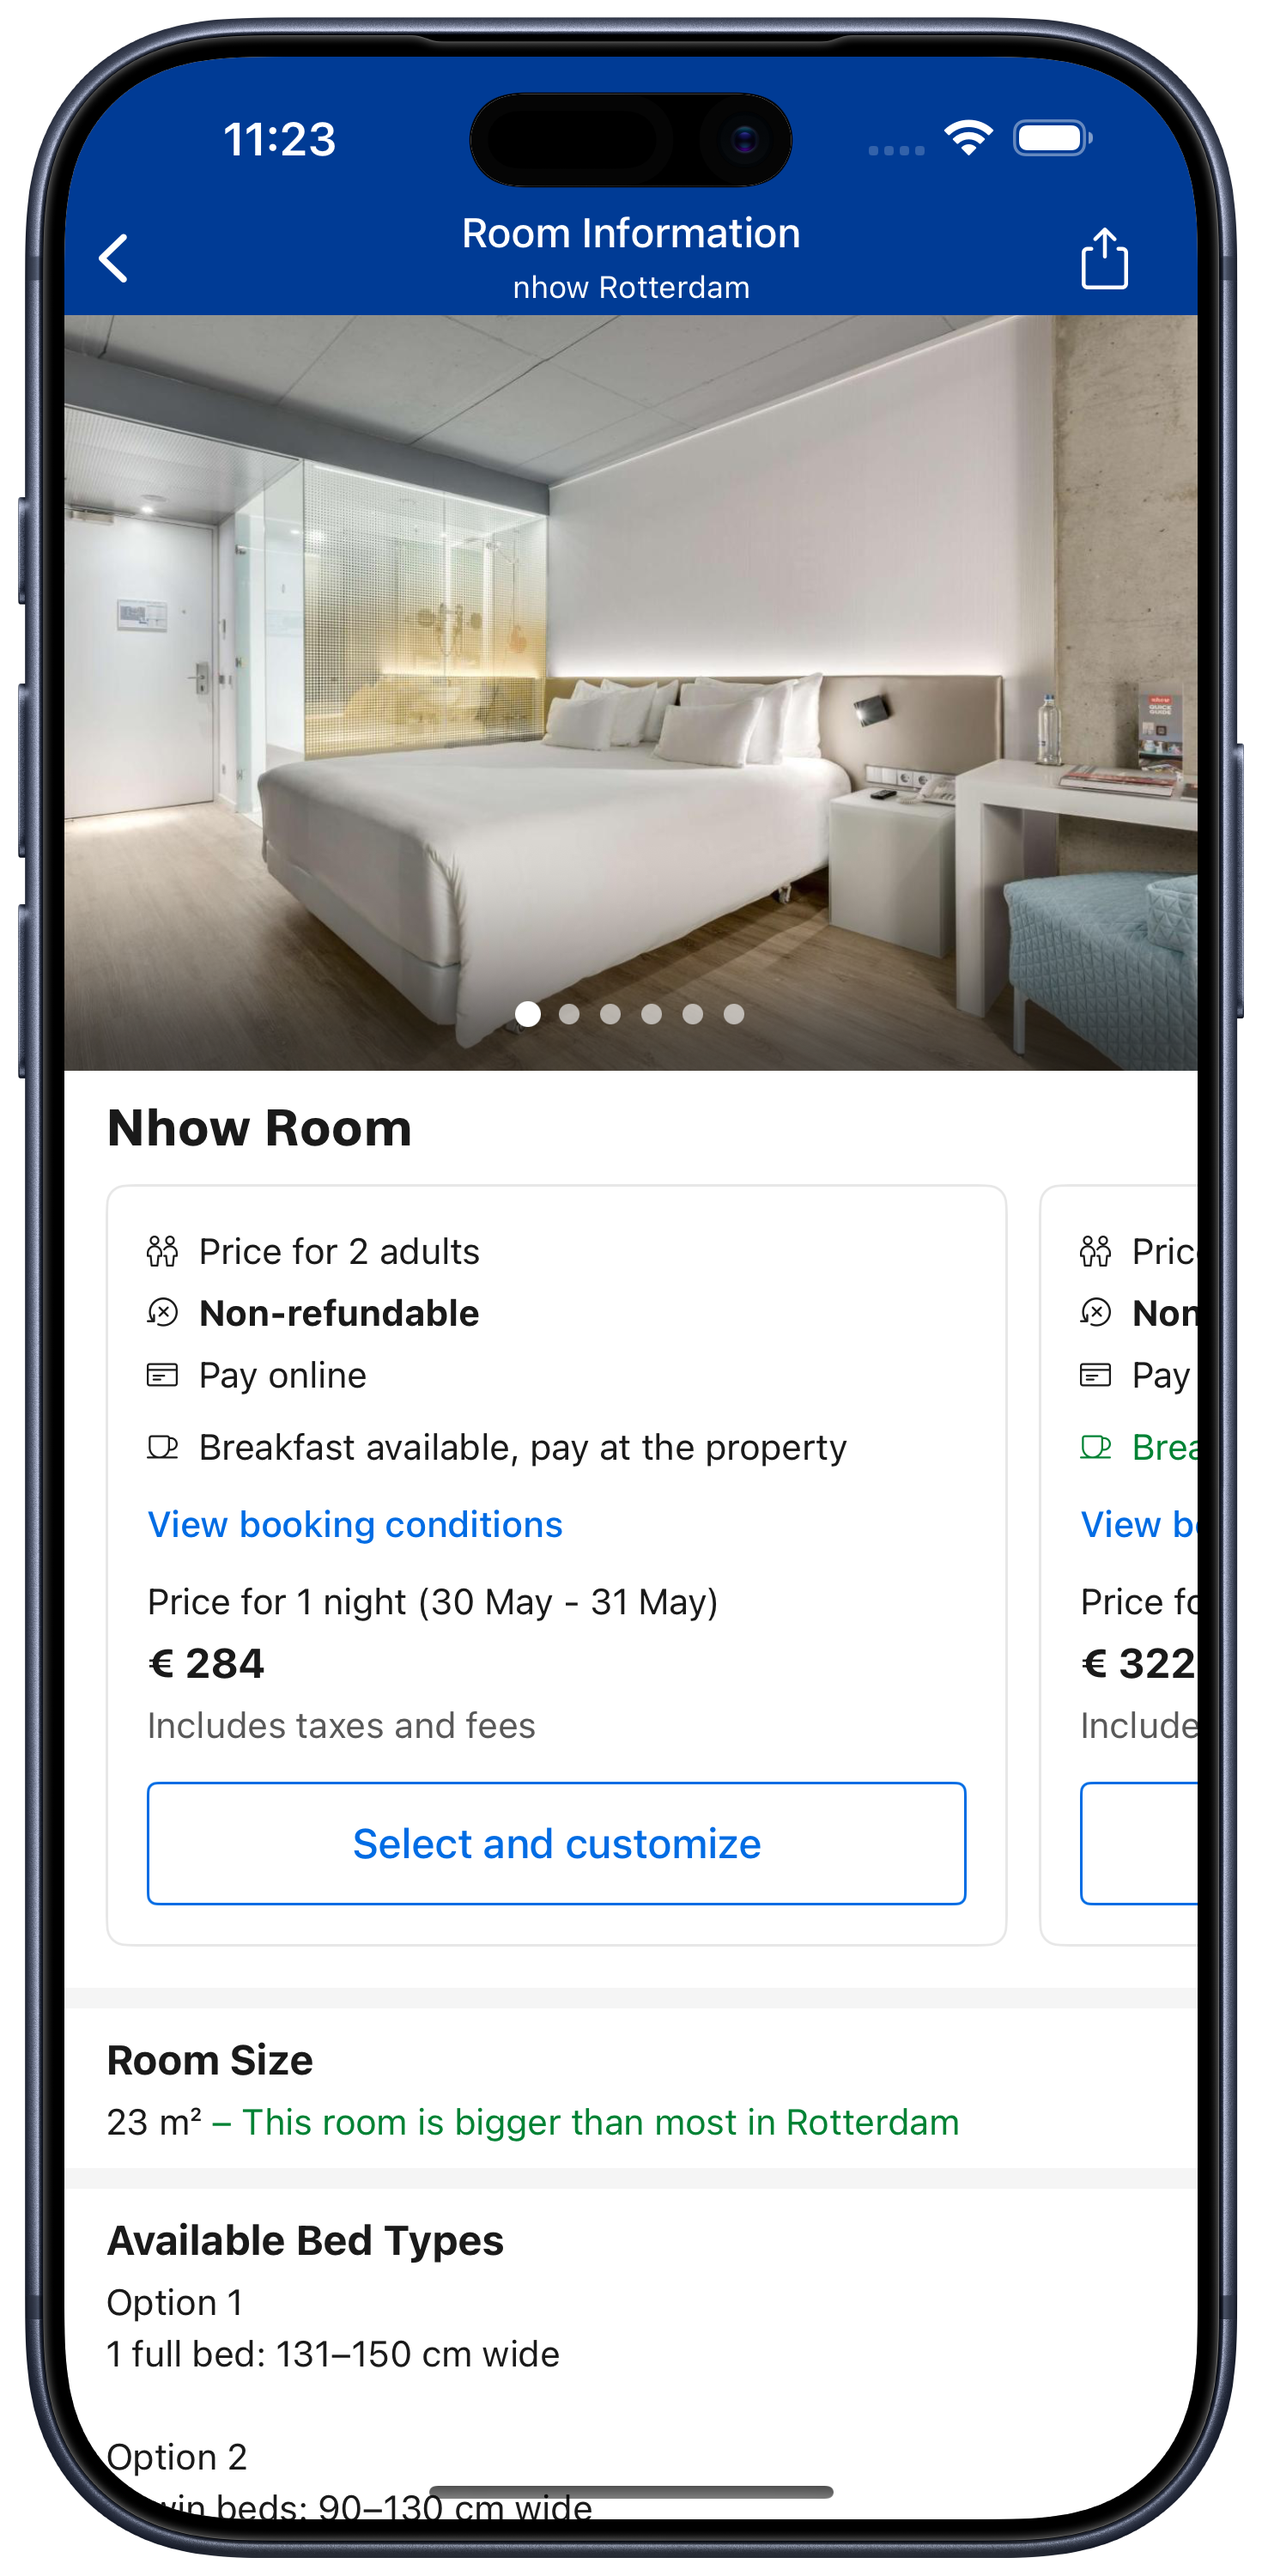
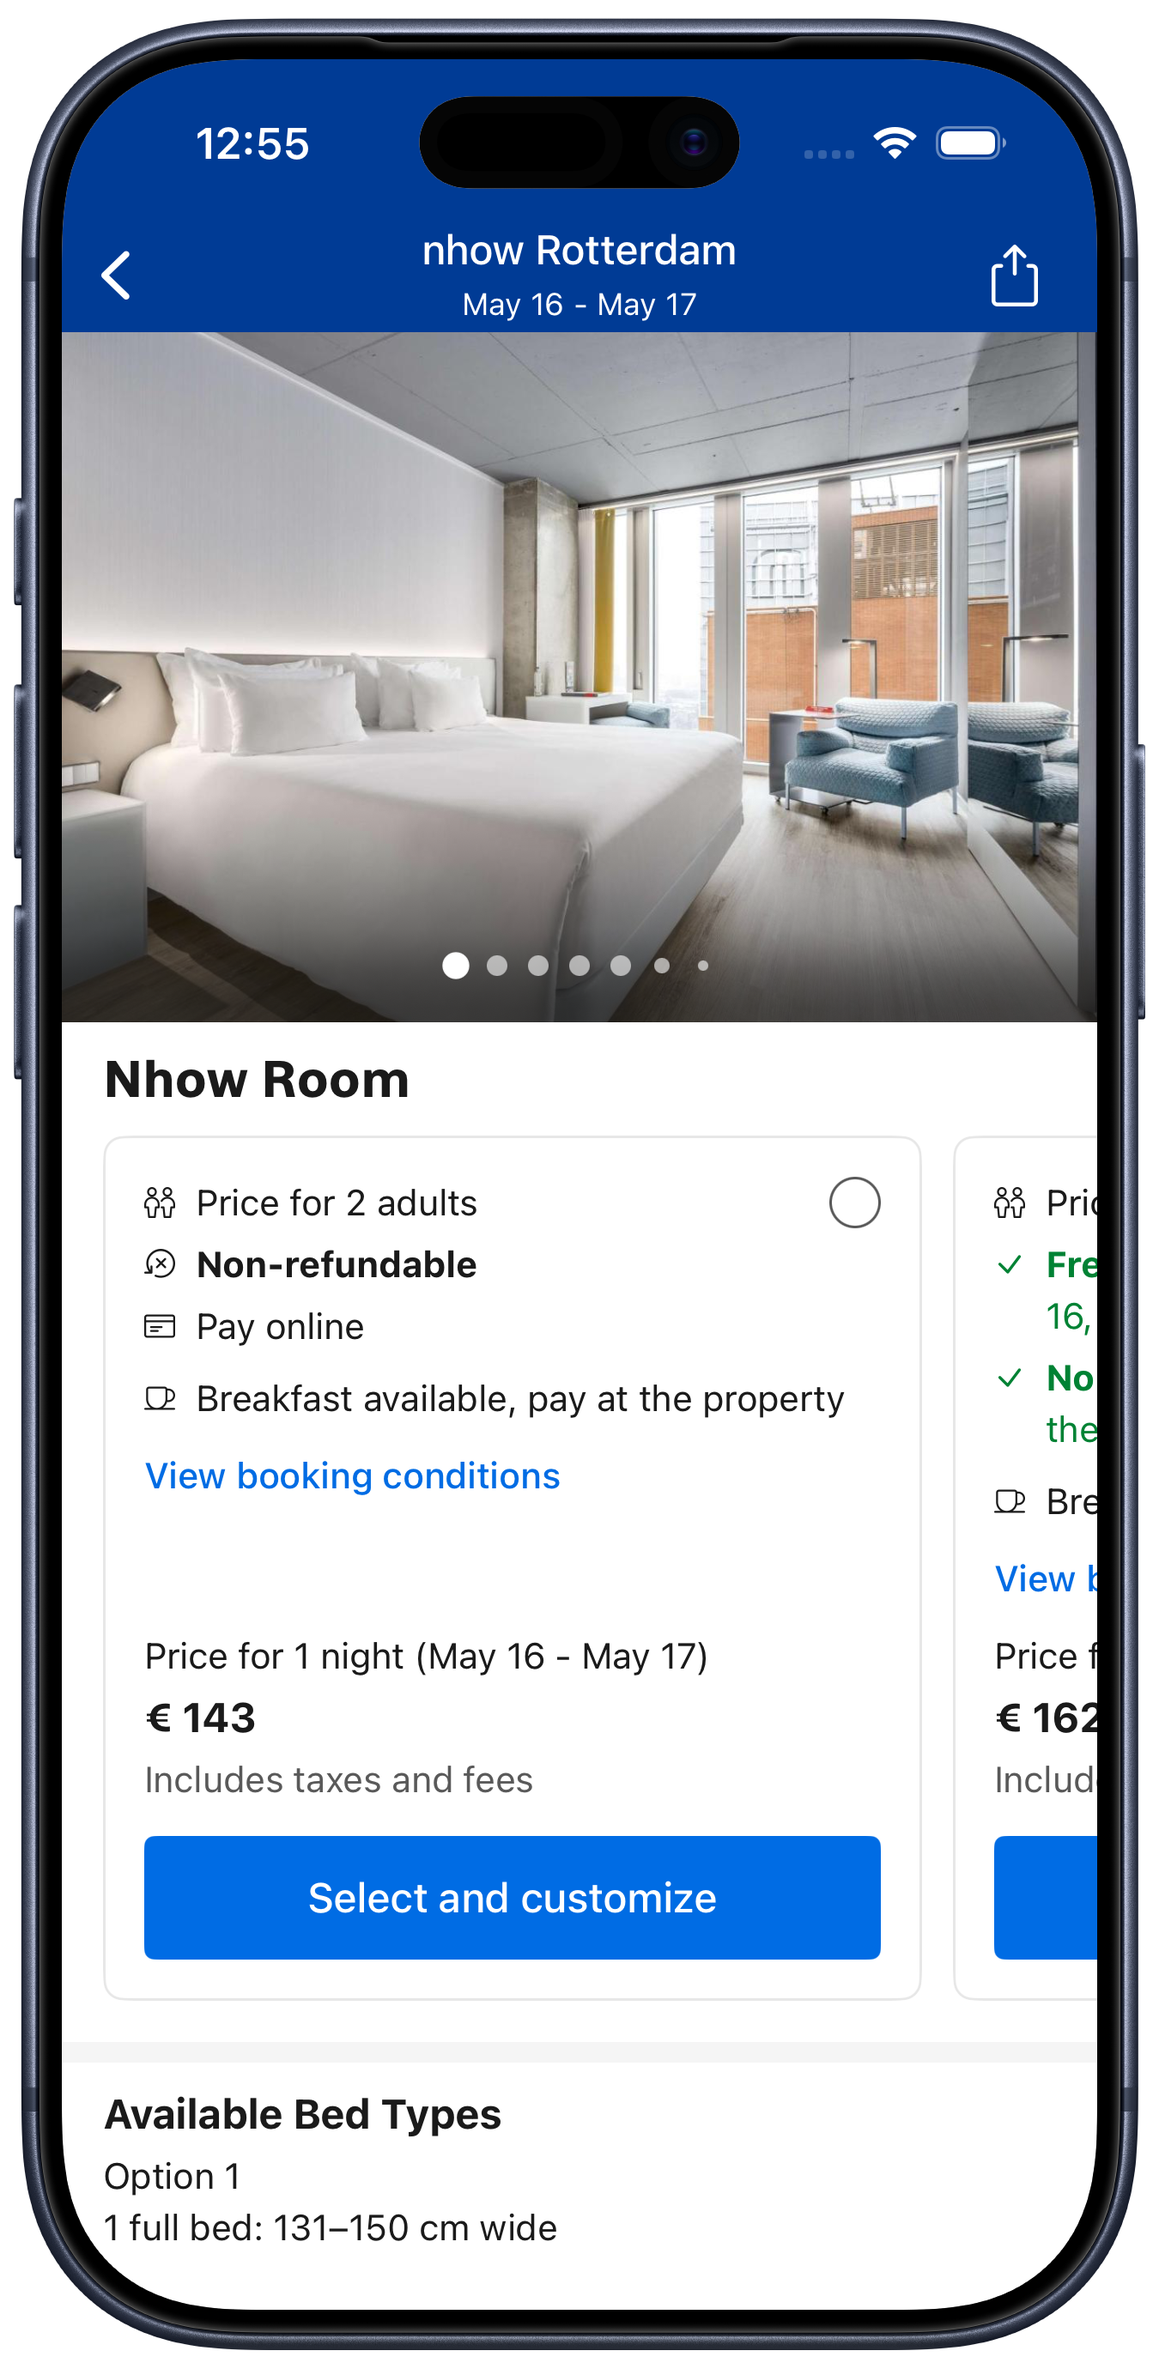
Complete Booking room comparison case study

diff --git a/booking/index.html b/booking/index.html
@@ -12,37 +12,28 @@
     <link rel="stylesheet" href="../css/style.css">
     <link rel="stylesheet" href="../css/works.css">
     <link rel="icon" type="image/png" href="../assets/favicon.png" />
+    <link rel="shortcut icon" type="image/x-icon" href="../assets/favicon.png">
 </head>
 
 <body class="booking-project">
-    <div class="work-container">
+<div class="work-container">
         <div class="work-header booking-header">
-            <p class="booking-brand">Booking.com</p>
-            <h1>Horizontal Room<br />Comparison</h1>
-            <div class="comparison-preview" aria-label="Illustration of three rooms shown side by side">
-                <div class="comparison-card">
-                    <span class="comparison-photo"></span>
-                    <strong>Standard Room</strong>
-                    <span>1 bed · 2 guests</span>
-                </div>
-                <div class="comparison-card comparison-card-featured">
-                    <span class="comparison-photo"></span>
-                    <strong>Deluxe Room</strong>
-                    <span>1 bed · City view</span>
-                </div>
-                <div class="comparison-card">
-                    <span class="comparison-photo"></span>
-                    <strong>Family Room</strong>
-                    <span>2 beds · 4 guests</span>
+            <div class="booking-hero">
+                <img src="../assets/booking/booking-hero.png" alt="Two deep blue iPhones showing the Booking.com room list in dark and light appearances." />
+                <div class="booking-hero-copy">
+                    <p class="booking-brand">Booking.com · iOS</p>
+                    <h1>Horizontal Room<br />Comparison</h1>
                 </div>
             </div>
         </div>
     </div>
 
-    <nav id="nav">
+    <nav id="nav" class="booking-nav">
         <div class="nav-content">
             <div class="avatar">
-                <a href=".."><img src="../assets/memoji.png" alt="My Memoji" /></a>
+                <a href="..">
+                    <img src="../assets/memoji.png" alt="My Memoji" />
+                </a>
             </div>
             <ul class="menu">
                 <li><a href="..">Home</a></li>
@@ -52,59 +43,67 @@
             </ul>
         </div>
     </nav>
-
-    <main>
-        <div class="back-white">
+<main>
+        <div class="back-white booking-overview-section">
             <article class="work-article">
-                <p class="case-study-label">Booking.com · iOS</p>
                 <h2>Overview</h2>
-                <p class="work-text">
-                    I worked on a horizontal comparison experience for the room list in the Booking.com iOS app. The project explored how to make the differences between available rooms easier to understand without asking travellers to repeatedly move back and forth between separate options.
+                <p class="work-text-normal">
+                    I led development of a horizontal room comparison experience for the Booking.com iOS app, implementing the interface and its logic from start to finish. The experience helps travellers compare rates for the same room and understand what each option includes.
                 </p>
             </article>
         </div>
 
         <div class="back-gray">
             <article class="work-article">
-                <h2>The problem</h2>
+                <h2>The Problem</h2>
                 <p class="work-text-normal">
-                    Room options often share most of their details while differing in a few important ways: bed configuration, occupancy, cancellation policy, included meals, and price. In a vertical list, those differences can be difficult to keep in mind while making a decision.
+                    Room rates often differ in only a few ways, such as cancellation terms or whether breakfast is included. The previous experience placed rates in a long, price-sorted vertical list, repeating room size, bed configuration and amenities. Rates for the same room were not always next to each other, so a cheaper rate for one room could appear above a more expensive rate for another. That made it difficult for travellers to see what they would get for paying more.
                 </p>
             </article>
         </div>
 
-        <div class="back-white">
+        <div class="booking-comparison-section booking-comparison-white padding-bottom-4">
             <article class="work-article">
-                <h2>The approach</h2>
+                <h2>A Horizontal Comparison</h2>
                 <p class="work-text-normal">
-                    The horizontal layout keeps multiple room options in the same context, so travellers can scan comparable details and move between choices directly. The implementation had to preserve the amount of useful information in each room card while making the direction of scrolling and the current position clear.
+                    The new layout keeps shared details such as room size, bed configuration and amenities together in a room card, while placing that room’s rates horizontally. Travellers can scan the differences between rates in context and choose an option based on what matters to them.
                 </p>
-                <div class="portfolio-placeholder" role="img" aria-label="Placeholder for an approved screenshot of the horizontal room comparison">
-                    <span>Approved product screenshot</span>
-                    <small>To be added</small>
-                </div>
             </article>
+            <div class="work-image">
+                <img src="../assets/booking/booking-room-list-comparison.png" alt="Before and after comparison of Booking.com room list: the original vertical list of repeated room information beside the redesigned horizontal rate options grouped with each room." />
+            </div>
+            <div class="subtitle">
+                Room rates are grouped horizontally within each room, making their differences easier to compare.
+            </div>
         </div>
 
-        <div class="back-blue">
+        <div class="booking-comparison-section padding-bottom-4">
             <article class="work-article">
-                <h2>Accessibility</h2>
+                <h2>Room Details</h2>
                 <p class="work-text-normal">
-                    Accessibility was part of the interaction design rather than a follow-up. The experience needed a meaningful reading order, understandable room and price information, predictable focus movement, and clear announcements when travellers moved between options.
+                    The comparison also carries into room details, keeping the rates visible together while travellers review information about the selected room.
                 </p>
             </article>
+            <div class="work-image">
+                <img src="../assets/booking/booking-room-details-comparison.png" alt="Before and after comparison of Booking.com room details: the original single-rate details page beside the redesigned page with rates displayed side by side." />
+            </div>
+            <div class="subtitle">
+                Room details keep rate options visible alongside information about the selected room.
+            </div>
         </div>
 
-        <div class="back-white case-study-draft">
+        <div class="back-white padding-bottom-4">
             <article class="work-article">
                 <h2>Outcome</h2>
                 <p class="work-text-normal">
-                    This is an early portfolio draft. The final version will add my specific contribution, the approved product visuals, and the outcome that can be shared publicly.
+                    The experience made it easier for travellers to understand what higher-priced rates offered and compare options based on value. Accessibility was fully verified through manual checks and an external audit.
+                </p>
+                <p class="booking-app-store-link">
+                    <a href="https://apps.apple.com/app/id367003839" target="_blank" rel="noopener noreferrer"><img src="../assets/icons/app-store.svg" alt="Download on the App Store" /></a>
                 </p>
             </article>
         </div>
     </main>
-
     <footer>
         <div class="footer-content">
             <div>© <span id="year"></span> Behdad Keynejad</div>
@@ -116,10 +115,14 @@
             </div>
         </div>
         <a class="top-link" href="#top">
-            <div class="arrow"><div></div><div></div></div>
+            <div class="arrow">
+                <div></div>
+                <div></div>
+            </div>
             <div class="link">Top</div>
         </a>
     </footer>
+
     <script src="../js/script.js"></script>
 </body>
 

diff --git a/css/works.css b/css/works.css
@@ -66,64 +66,88 @@ nav {
     background: linear-gradient(145deg, #003b95, #0057b8);
 }
 
+.booking-project nav.booking-nav {
+    background-color: #003b95;
+}
+
+.booking-project nav.booking-nav .menu li a {
+    color: rgba(255, 255, 255, 0.8);
+}
+
+.booking-project nav.booking-nav .menu li:hover a {
+    color: white;
+}
+
+.booking-app-store-link {
+    margin-top: 32px;
+}
+
 .booking-header {
-    min-height: 520px;
-    padding: 76px 32px 56px;
+    min-height: 390px;
+    padding: 0 32px 48px;
+}
+
+.booking-hero {
+    position: relative;
+    width: min(100%, 1200px);
+    margin: 0 auto;
+}
+
+.booking-hero > img {
+    display: block;
+    width: 100%;
+    height: auto;
+    padding: 0;
+    transform: translateY(68px) scale(0.92);
+    transform-origin: center top;
+}
+
+.booking-hero-copy {
+    position: absolute;
+    z-index: 1;
+    top: 42%;
+    left: 50%;
+    width: 230px;
+    transform: translate(-50%, -50%);
+    text-align: center;
+    color: white;
 }
 
 .work-header.booking-header h1 {
-    max-width: 620px;
-    padding-top: 18px;
-    font-size: 42px;
-    line-height: 1.15;
+    max-width: none;
+    padding-top: 8px;
+    margin: 0;
+    font-size: 27px;
+    line-height: 1.12;
 }
 
 .booking-brand {
+    margin: 0;
     text-align: center;
-    font-size: 18px;
+    font-size: 14px;
     font-weight: 700;
 }
 
-.comparison-preview {
-    display: flex;
-    gap: 14px;
-    max-width: 760px;
-    margin: 44px auto 0;
-    align-items: center;
-    justify-content: center;
+.booking-comparison-section {
+    width: 100%;
+    padding-bottom: 48px;
+    background-color: #f1f3f5;
 }
 
-.comparison-card {
-    display: flex;
-    flex: 1;
-    max-width: 220px;
-    min-height: 170px;
-    padding: 14px;
-    flex-direction: column;
-    gap: 8px;
-    color: #212121;
-    border-radius: 12px;
-    background: white;
-    box-shadow: 0 12px 32px rgba(0, 27, 68, 0.24);
+.booking-comparison-white {
+    background-color: #fff;
 }
 
-.comparison-card-featured {
-    transform: translateY(-12px);
+.booking-project .back-gray {
+    background-color: #f1f3f5;
 }
 
-.comparison-photo {
-    height: 82px;
-    border-radius: 8px;
-    background: linear-gradient(135deg, #dbeaff, #edf5ff);
+.booking-project .back-blue {
+    background-color: #fff;
 }
 
-.comparison-card strong {
-    font-size: 13px;
-}
-
-.comparison-card > span:last-child {
-    color: #6b6b6b;
-    font-size: 11px;
+.booking-overview-section {
+    padding-bottom: 40px;
 }
 
 .case-study-label {
@@ -134,32 +158,6 @@ nav {
     text-align: center;
     text-transform: uppercase;
     letter-spacing: 0.08em;
-}
-
-.portfolio-placeholder {
-    display: flex;
-    min-height: 280px;
-    margin: 40px 0 48px;
-    align-items: center;
-    justify-content: center;
-    flex-direction: column;
-    gap: 4px;
-    color: #59636e;
-    border: 2px dashed #c6d7ec;
-    border-radius: 14px;
-    background: #f7faff;
-}
-
-.portfolio-placeholder span {
-    font-weight: 700;
-}
-
-.portfolio-placeholder small {
-    color: #8a96a3;
-}
-
-.case-study-draft {
-    padding-bottom: 64px;
 }
 
 .work-header h1 {
@@ -278,6 +276,10 @@ nav {
 
 main img {
     max-width: 100%;
+}
+
+main img[src$="app-store.svg"] {
+    padding: 0;
 }
 
 .margin-top-0 {
@@ -426,30 +428,35 @@ footer {
         font-size: 34px;
     }
 
-    .comparison-preview {
-        gap: 8px;
-    }
-
-    .comparison-card {
-        min-width: 0;
-        padding: 10px;
-    }
 }
 
 @media only screen and (max-width: 560px) {
     .booking-header {
-        min-height: 470px;
+        min-height: 0;
         padding-right: 16px;
         padding-left: 16px;
     }
 
-    .booking-header h1 {
+    .booking-header {
+        padding-top: 24px;
+        padding-bottom: 32px;
+    }
+
+    .booking-hero-copy {
+        position: static;
+        width: auto;
+        padding: 0 8px 14px;
+        transform: none;
+    }
+
+    .booking-hero > img {
+        transform: translateY(12px) scale(0.92);
+    }
+
+    .work-header.booking-header h1 {
         font-size: 30px;
     }
 
-    .comparison-card:last-child {
-        display: none;
-    }
 }
 
 @media only screen and (min-width: 945px) {

diff --git a/PORTFOLIO.md b/PORTFOLIO.md
@@ -4,6 +4,7 @@ The project case studies are authored as Nunjucks templates in `portfolio-src/` 
 
 - `portfolio-src/snapp.njk` → `snapp/index.html`
 - `portfolio-src/driver.njk` → `driver/index.html`
+- `portfolio-src/booking.njk` → `booking/index.html`
 
 Shared document markup lives in `portfolio-src/_includes/`. Edit the source templates rather than the generated HTML files.
 
